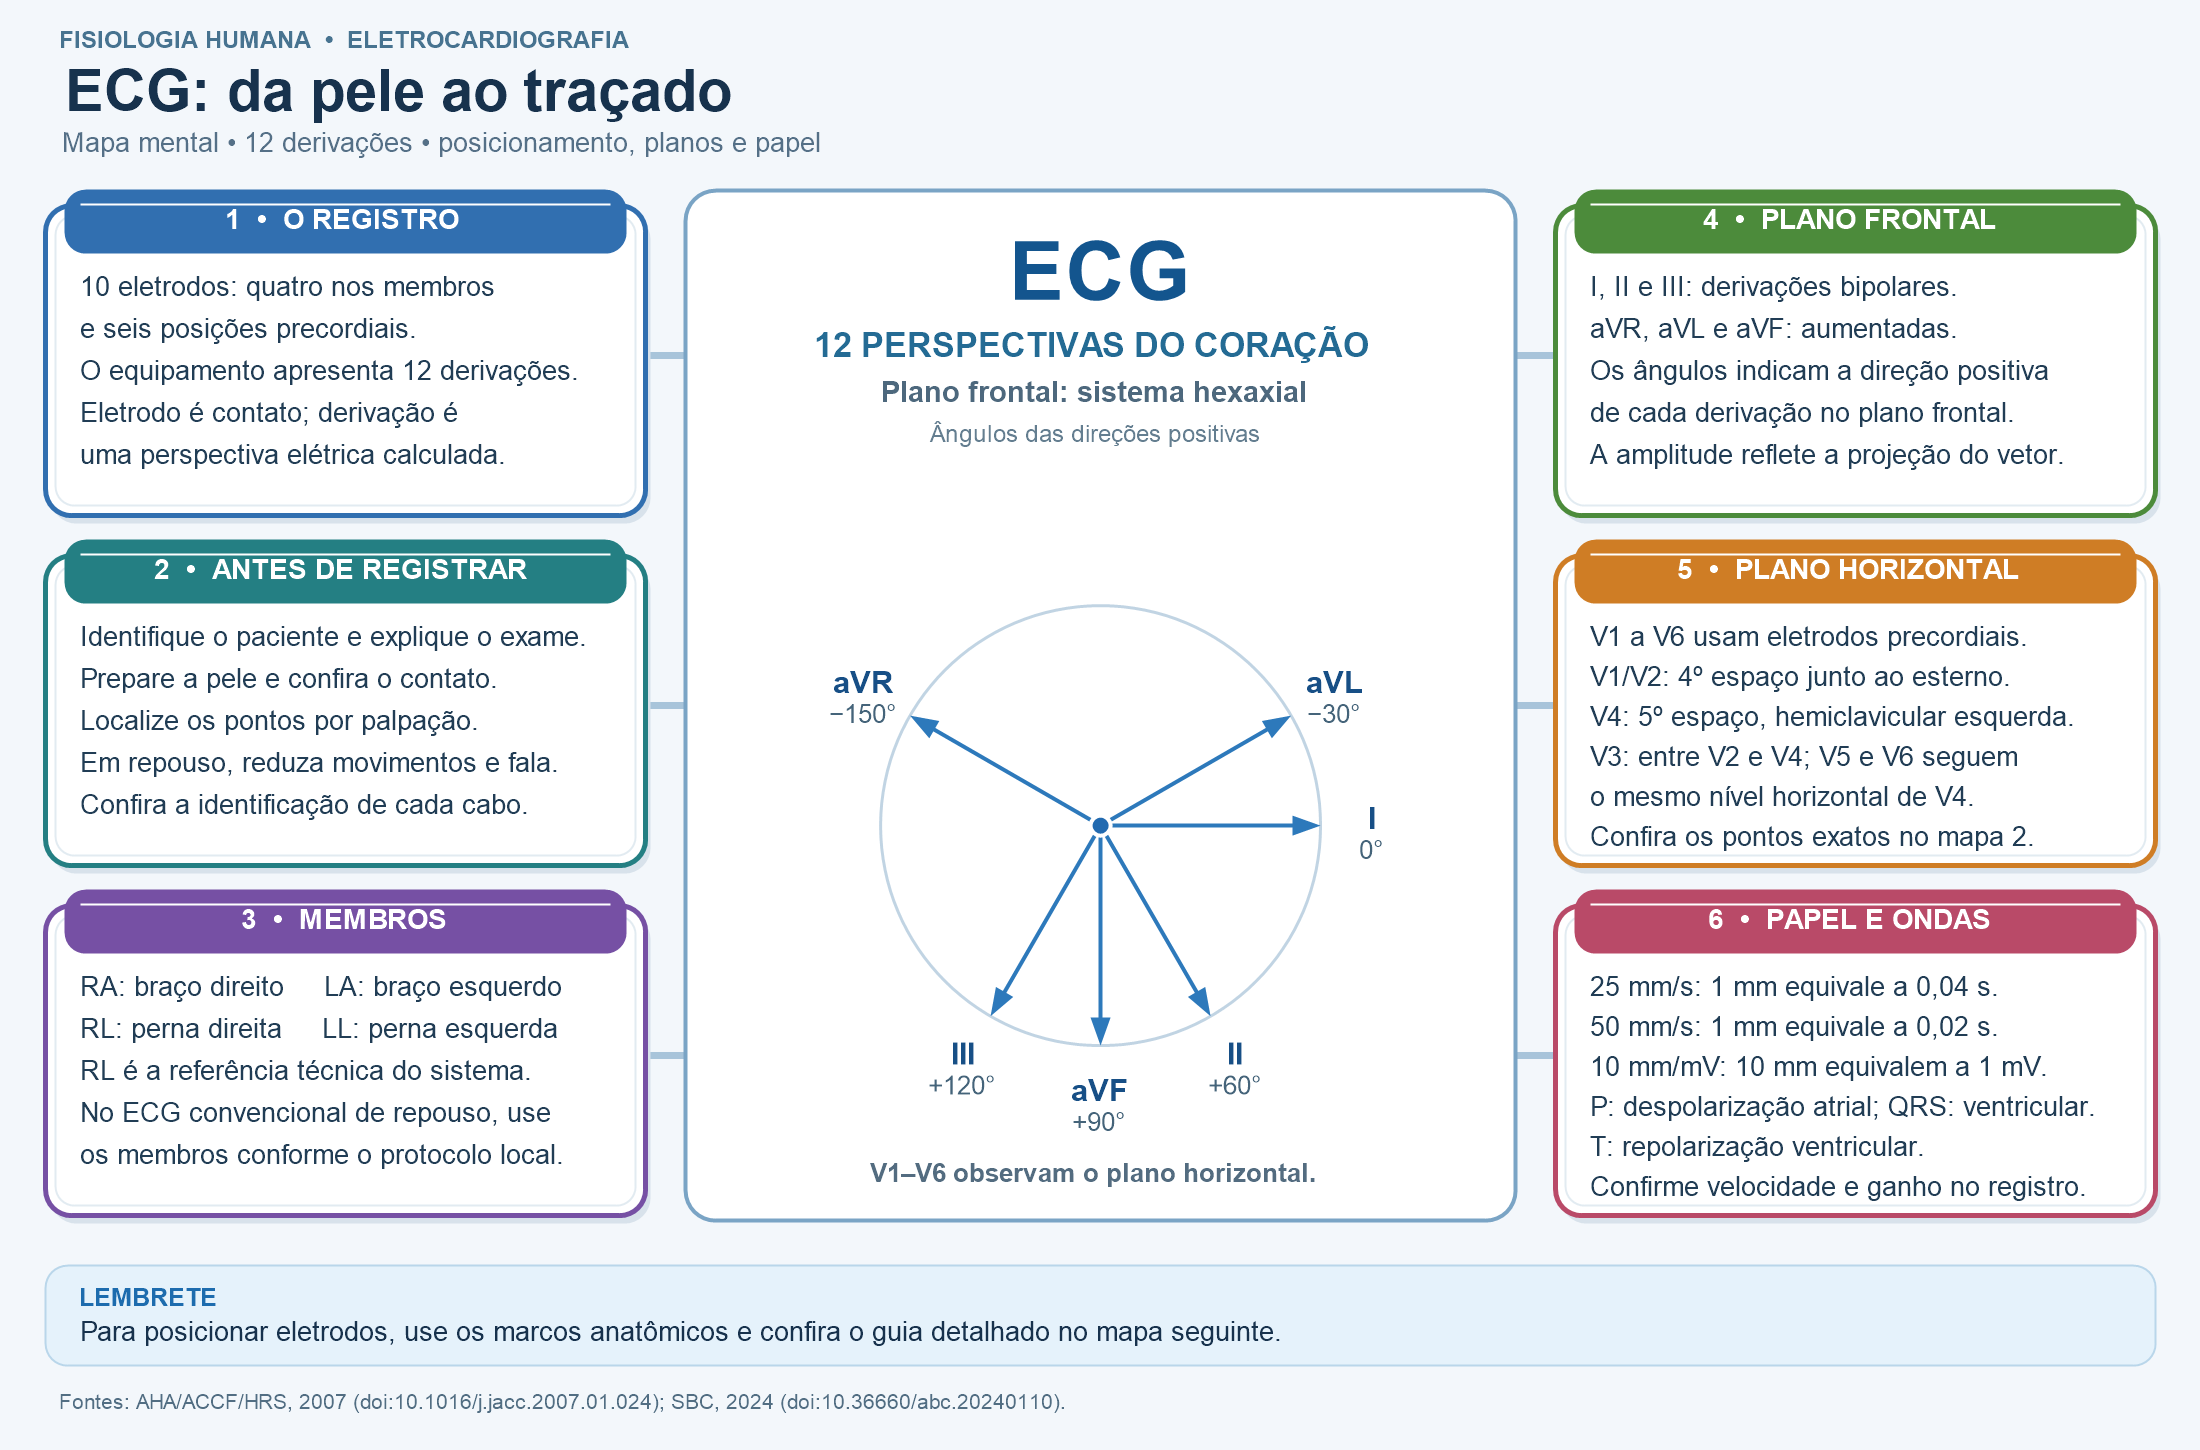
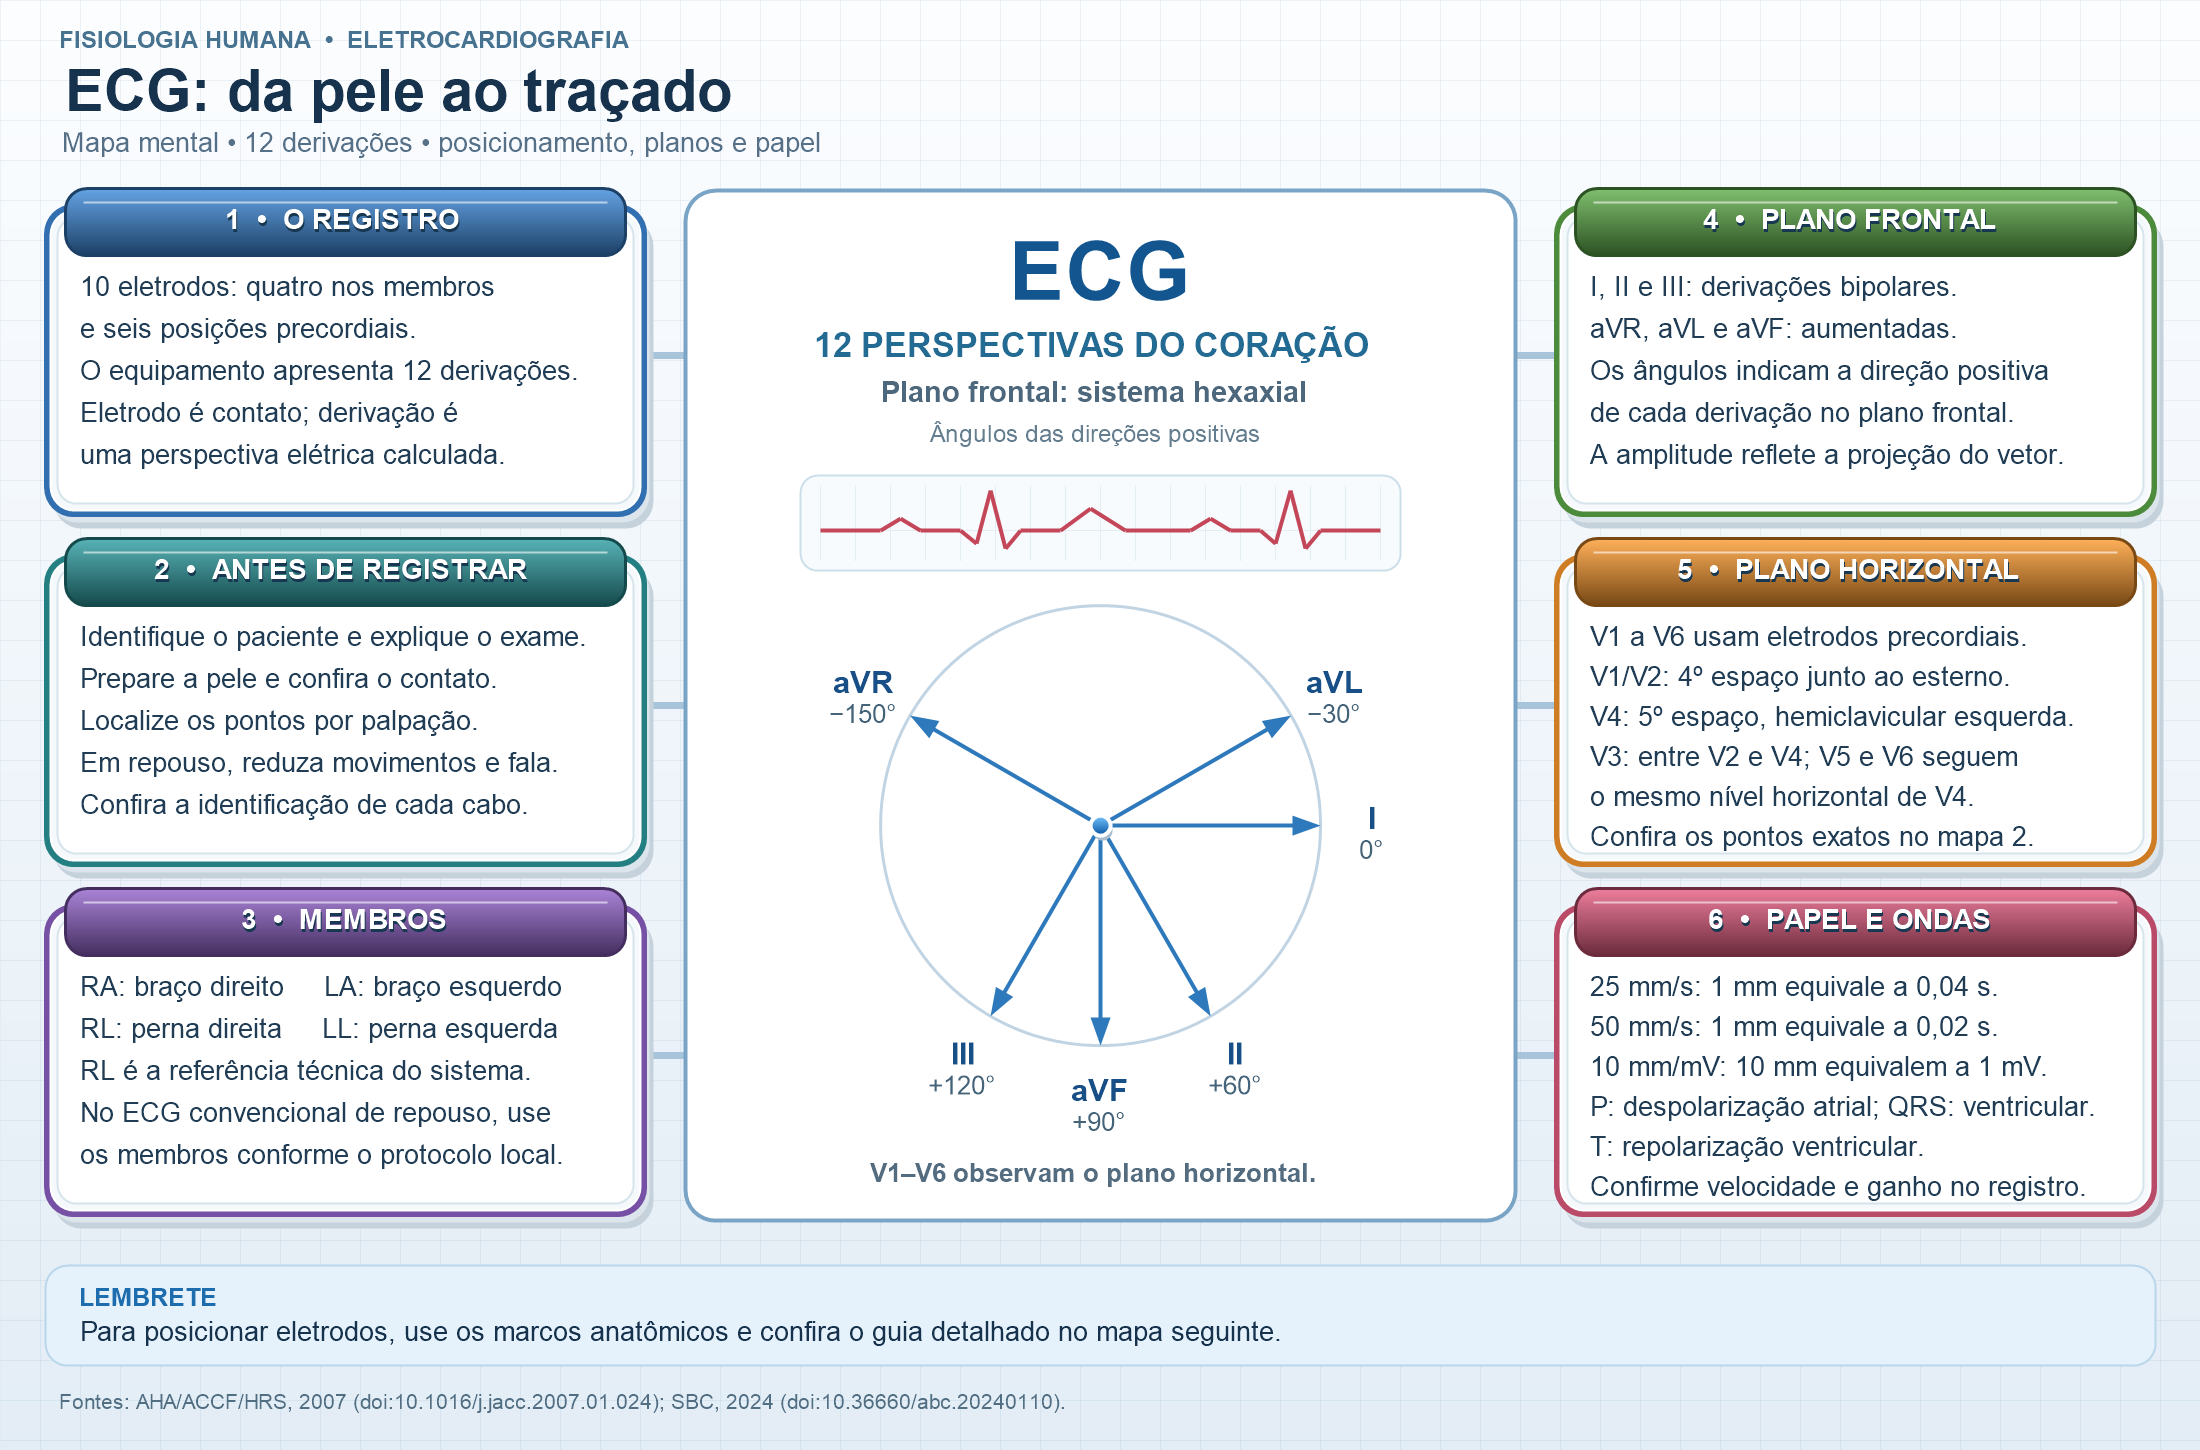
Aprimora mapas de ECG e destaca acesso no card

diff --git a/inicio/lista.js b/inicio/lista.js
@@ -39,7 +39,11 @@
   function card(u, s, k) {
     const deep = !!s.deep;
     const leitura = s.leitura ? `<a href="${esc(s.leitura)}" target="_blank" rel="noopener">Leitura complementar ↗</a>` : '';
-    const mapa = s.mapa ? `<a href="${esc(s.mapa)}" target="_blank" rel="noopener" data-map="optativo" data-i="0" aria-label="Abrir mapas de ECG e posicionamento dos eletrodos">${mapIcon}Mapa mental</a>` : '';
+    const mapa = s.mapa ? [
+      ['ecg-mapa-mental.png','Mapa 1 · ECG'],
+      ['ecg-posicionamento.png','Mapa 2 · Eletrodos'],
+      ['ecg-membros-derivacoes.png','Mapa 3 · Derivações']
+    ].map(([file,label],i) => `<a href="${esc(s.mapa.replace('ecg-mapa-mental.png',file))}?v=20261119b" target="_blank" rel="noopener" data-map="optativo" data-i="${i}" aria-label="Abrir ${esc(label)}">${mapIcon}${esc(label)}</a>`).join('') : '';
     return `<article class="card rv${deep ? ' deep' : ''}" style="--c:${cor(u.id)};--i:${(k % 3) + 1}">
       ${deep ? `<span class="badge">${esc(s.deep)}</span>` : `<span class="cat">${esc(s.cat || u.curto)}</span>`}
       <h4>${esc(s.t)}</h4><p>${esc(s.obj)}</p>

diff --git a/inicio/celula-mapa.js b/inicio/celula-mapa.js
@@ -341,9 +341,9 @@ const dlg=document.getElementById('mapdlg'); let mapIdx=0;
 let mapUnit=null;
 const ecgPrefix = course === 'fi' ? '../' : '';
 const ecgMaps = [
-  {src:ecgPrefix+'assets/maps/ecg-mapa-mental.png', t:'ECG — mapa mental'},
-  {src:ecgPrefix+'assets/maps/ecg-posicionamento.png', t:'Posicionamento dos eletrodos precordiais'},
-  {src:ecgPrefix+'assets/maps/ecg-membros-derivacoes.png', t:'Membros e derivações frontais'}
+  {src:ecgPrefix+'assets/maps/ecg-mapa-mental.png?v=20261119b', t:'ECG — mapa mental'},
+  {src:ecgPrefix+'assets/maps/ecg-posicionamento.png?v=20261119b', t:'Posicionamento dos eletrodos precordiais'},
+  {src:ecgPrefix+'assets/maps/ecg-membros-derivacoes.png?v=20261119b', t:'Membros e derivações frontais'}
 ];
 function openMap(i,k){
   k=k||mapUnit||sel;

diff --git a/fisioterapia/index.html b/fisioterapia/index.html
@@ -148,8 +148,8 @@
 </dialog>
 
 <script src="../inicio/dados-fi.js?v=pele-temperatura-fisio-09ab"></script>
-<script src="../inicio/celula-mapa.js?v=ecg-mapas-20261119"></script>
-<script src="../inicio/lista.js?v=ecg-mapas-20261119"></script>
+<script src="../inicio/celula-mapa.js?v=ecg-mapas-20261119b"></script>
+<script src="../inicio/lista.js?v=ecg-mapas-20261119b"></script>
 <script src="../tutor-fisio-data.js?v=inicio-20261117"></script>
 <script src="../tutor-widget.js?v=inicio-20261117"></script>
 <script defer src="../acesso-qr.js?v=20261030-discreto" data-title="Fisiologia Interativa · Fisioterapia" data-url="https://fisiologia.drmarionascimento.com.br/fisioterapia/" data-image="assets/qr/fisiologia-fisio.svg"></script>

diff --git a/index.html b/index.html
@@ -167,8 +167,8 @@
 </dialog>
 
 <script src="inicio/dados-ef.js?v=neuro-11ab"></script>
-<script src="inicio/celula-mapa.js?v=ecg-mapas-20261119"></script>
-<script src="inicio/lista.js?v=ecg-mapas-20261119"></script>
+<script src="inicio/celula-mapa.js?v=ecg-mapas-20261119b"></script>
+<script src="inicio/lista.js?v=ecg-mapas-20261119b"></script>
 <script src="tutor-ef-data.js?v=inicio-20261117"></script>
 <script src="tutor-widget.js?v=inicio-20261117"></script>
 <script defer src="acesso-qr.js?v=20261030-discreto" data-title="Fisiologia Interativa · Educação Física" data-url="https://fisiologia.drmarionascimento.com.br/" data-image="assets/qr/fisiologia-ef.svg"></script>
